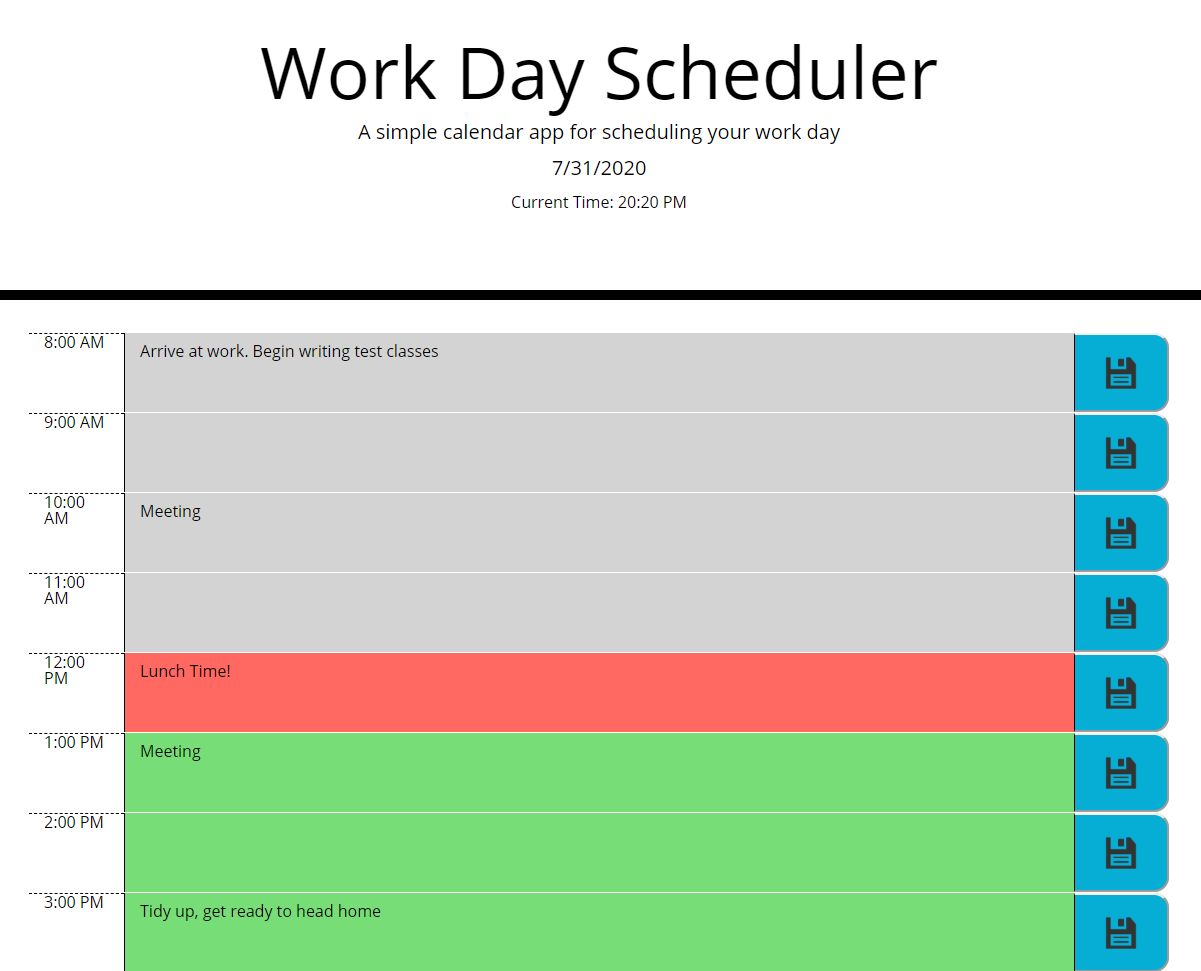
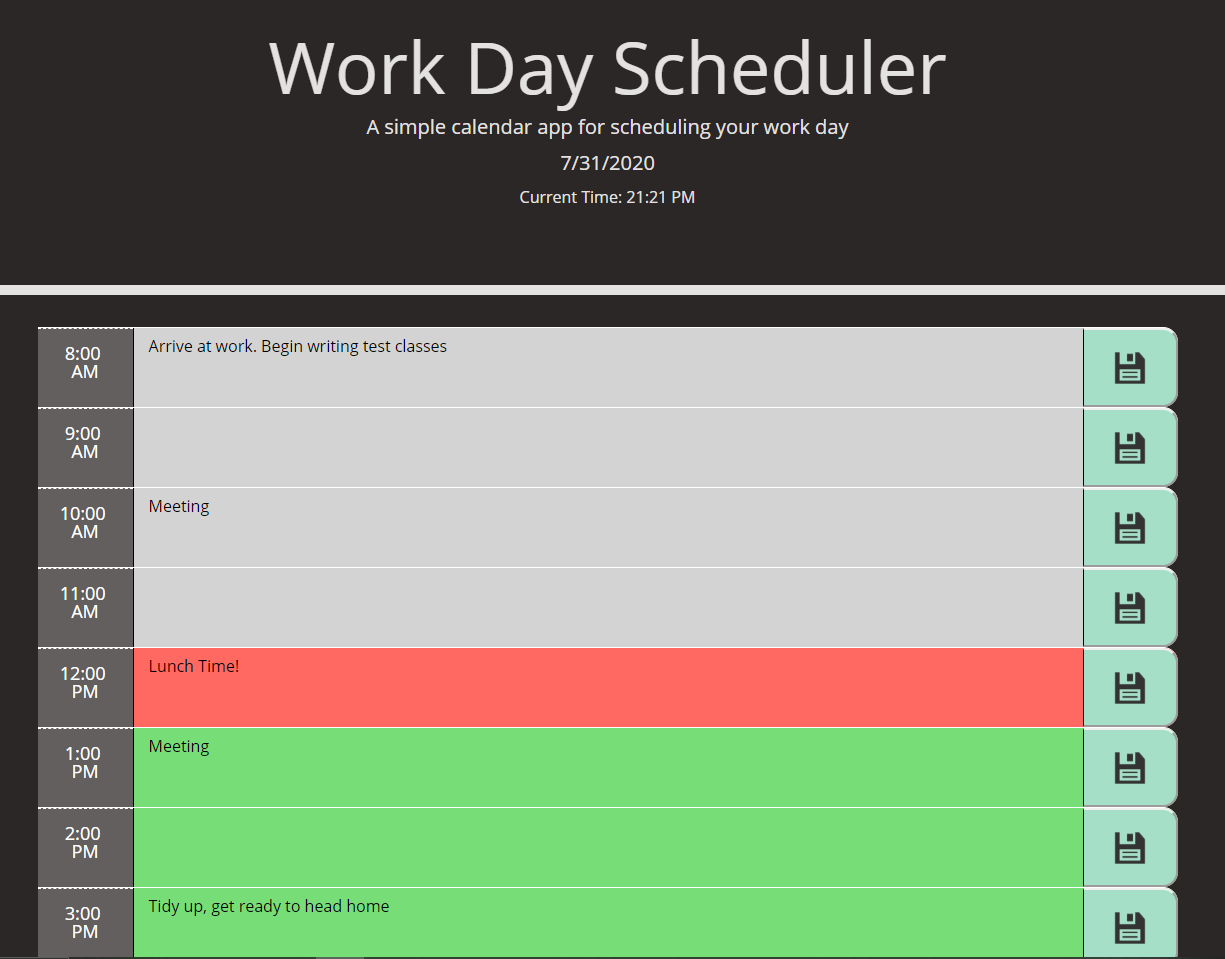
updates to css and button

diff --git a/style.css b/style.css
@@ -2,14 +2,14 @@ body {
     font-family: 'Open Sans', sans-serif;
     font-size: 16px;
     line-height: 1;
+    background-color: #2b2727;
   }
   
   textarea{
     background: transparent;
     border: none;
     resize: none;
-    color: #000000;
-    width: 85%;
+    color: black;
     border-left: 1px solid black;
     padding: 10px;
   }
@@ -17,9 +17,9 @@ body {
   .jumbotron {
     text-align: center;
     background-color: transparent;
-    color: black;
+    color: rgb(228, 225, 225);
     border-radius: 0;
-    border-bottom: 10px solid black;
+    border-bottom: 10px solid rgb(228, 225, 225);
   }
   
   .description{
@@ -28,7 +28,6 @@ body {
   
   .time-block{
     width: auto;
-    height: 80px;
     border-bottom-right-radius: 15px;
     border-top-right-radius: 15px;
   }
@@ -40,10 +39,12 @@ body {
   }
   
   .hour {
-    width: 8%;
-    background-color: #ffffff;
-    color: #000000;
-    border-top: 1px dashed #000000;
+    background-color: #635f5f;
+    color: white;
+    border-top: 1px dashed #ffffff;
+    text-align: center;
+    padding-top: 15px;
+    font-size: 18px;
   }
   
   .past {
@@ -65,7 +66,7 @@ body {
     border-bottom-right-radius: 15px;
     border-top-right-radius: 15px;
     border-left: 1px solid black;
-    background-color: #06AED5;
+    background-color: #a5dfc7;
     color: white;
   }
   #saveBtnImg {
@@ -73,8 +74,8 @@ body {
     object-fit: cover;
   }
   
-  .saveBtn i:hover {
-    font-size: 20px;
+  button:hover {
+    background-color: rgb(81, 156, 156);
     transition: all .3s ease-in-out;
   }
  

diff --git a/index.html b/index.html
@@ -8,12 +8,7 @@
       rel="stylesheet"
       href="https://stackpath.bootstrapcdn.com/bootstrap/4.3.1/css/bootstrap.min.css"
     />
-    <link
-      rel="stylesheet"
-      href="https://use.fontawesome.com/releases/v5.8.1/css/all.css"
-      integrity="sha384-50oBUHEmvpQ+1lW4y57PTFmhCaXp0ML5d60M1M7uH2+nqUivzIebhndOJK28anvf"
-      crossorigin="anonymous"
-    />
+    <script src="https://kit.fontawesome.com/cbf9846a55.js" crossorigin="anonymous"></script>
     <link
       href="https://fonts.googleapis.com/css?family=Open+Sans&display=swap"
       rel="stylesheet"

diff --git a/script.js b/script.js
@@ -3,7 +3,7 @@ currentDay = moment().format(' M/D/YYYY');
 var currentTime = moment().format('H:HH A')
 var currentTimeDiv = $('<p id="currentTime">' + "Current Time: " + currentTime + '</p>;');
 var timeCheck = moment().format('H'); // comment out for testing
-var timeCheck = 12; //sets hour used for testing
+// var timeCheck = 12; //sets hour used for testing
 
 // displays current date and time at top of day planner
 $('#currentDay').append(currentDay);  
